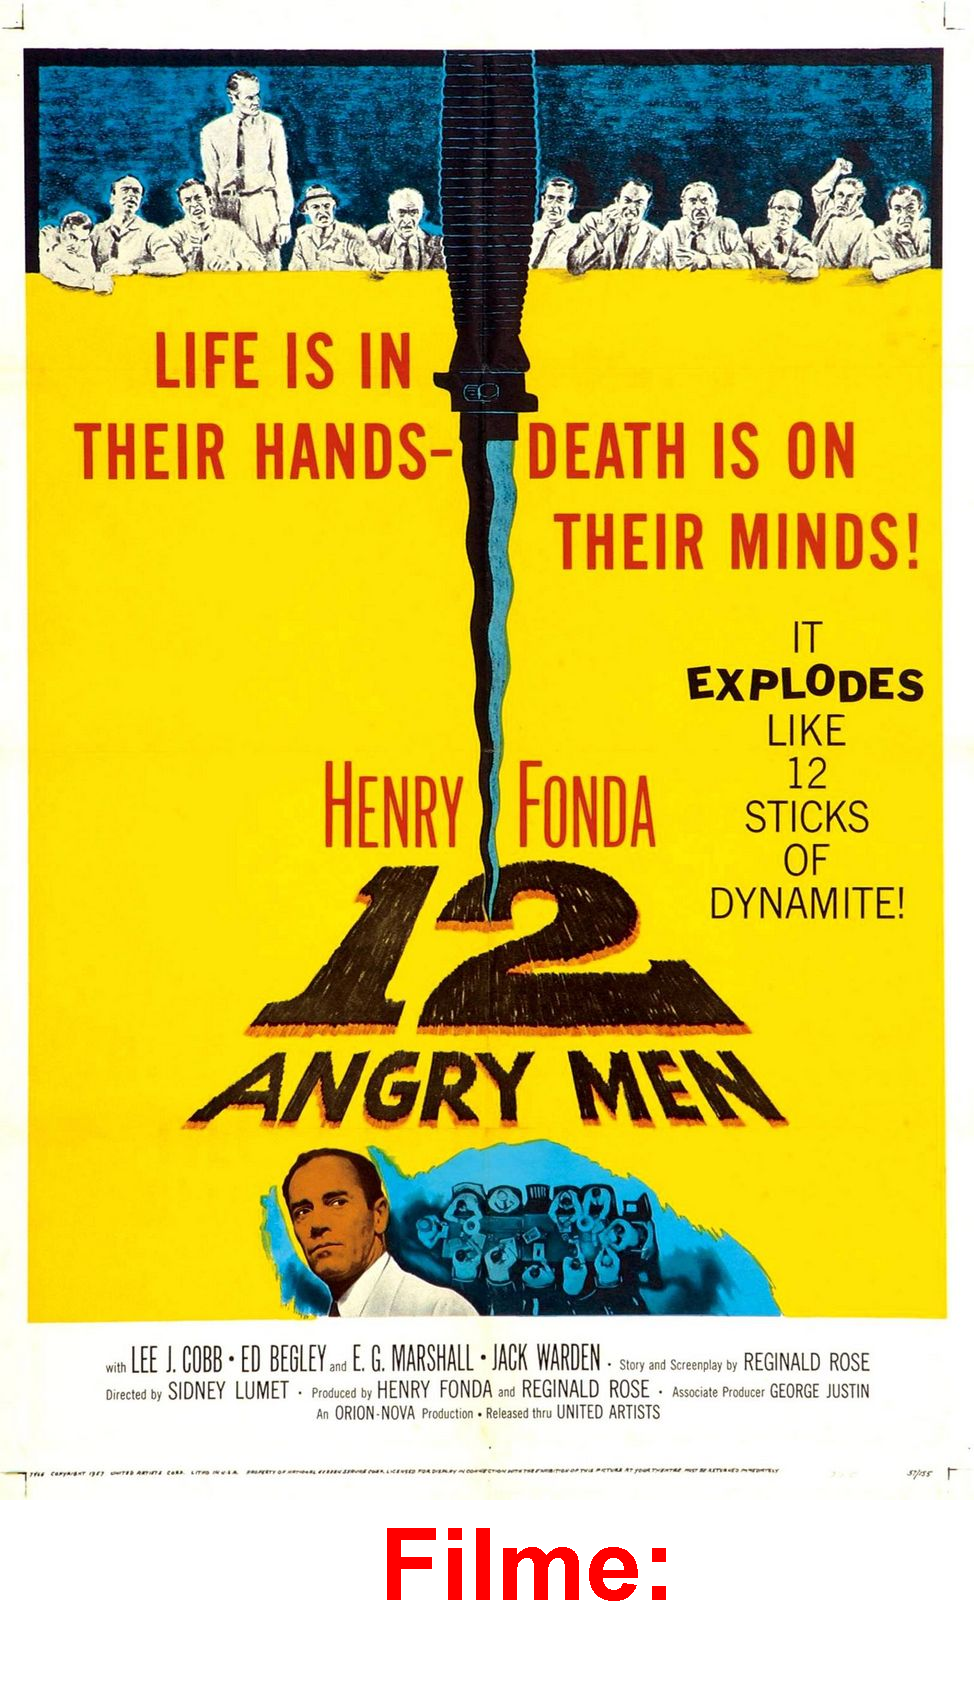
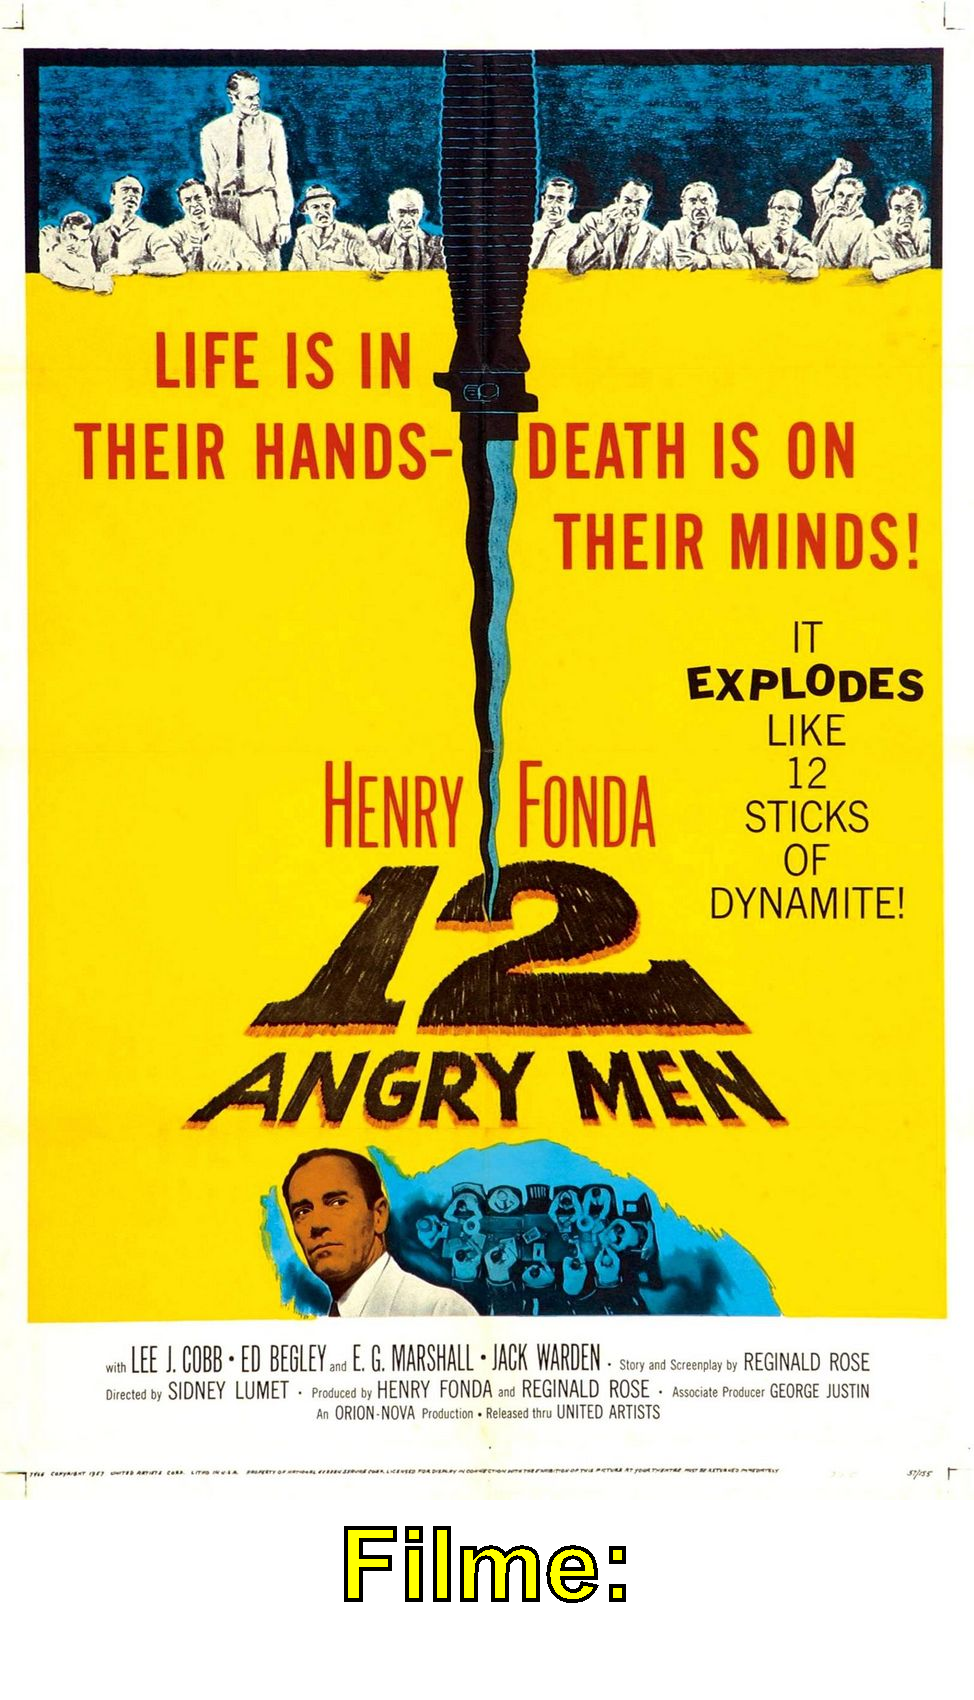
Add files via upload

Changed region(s): [[0.3388, 0.8729, 0.6776, 0.9665]]

diff --git a/src/StickerGenerator.java b/src/StickerGenerator.java
@@ -1,14 +1,17 @@
-import java.awt.Graphics2D;
+import java.awt.*;
+import java.awt.font.FontRenderContext;
+import java.awt.geom.AffineTransform;
+import java.awt.geom.Rectangle2D;
 import java.awt.image.BufferedImage;
 import java.io.File;
-import java.awt.Color;
-import java.awt.Font;
 import java.io.InputStream;
+import java.awt.FontMetrics;
+import java.awt.font.TextLayout;
 
 import javax.imageio.ImageIO;
 public class StickerGenerator {
 
-    public void create(InputStream inputStream, String fileName) throws Exception {
+    public <Shap> void create(InputStream inputStream, String fileName) throws Exception {
         // InputStream inputStream = new FileInputStream(new File("entrada/movie.jpg"));
         // InputStream inputStream = new URL("https://raw.githubusercontent.com/alura-cursos/imersao-java-2-api/main/TopMovies_9.jpg").openStream();
         BufferedImage imagemOriginal = ImageIO.read(inputStream);
@@ -25,11 +28,29 @@ public class StickerGenerator {
 
         // configurar a fonte
         var fonte = new Font(Font.SANS_SERIF, Font.BOLD, 100);
-        graphics.setColor(Color.RED);
+        graphics.setColor(Color.YELLOW);
         graphics.setFont(fonte);
 
         // escrever uma frase na nova imagem
-        graphics.drawString("Filme:",380, novaAltura - 100);
+        String text = "Filme:";
+        FontMetrics fontMetrics = graphics.getFontMetrics();
+        Rectangle2D rectangle = fontMetrics.getStringBounds(text, graphics);
+        int textWidth = (int) rectangle.getWidth();
+        int positionTextX = (largura - textWidth) / 2;
+        int positionTextY = novaAltura - 100;
+        graphics.drawString(text, positionTextX, positionTextY);
+
+        FontRenderContext fontRenderContext = graphics.getFontRenderContext();
+        var textLayout = new TextLayout(text, fonte, fontRenderContext);
+        Shap outline = (Shap) textLayout.getOutline(null);
+        AffineTransform transform = graphics.getTransform();
+        transform.translate(positionTextX, positionTextY);
+        graphics.setTransform(transform);
+        var outlineStroke = new BasicStroke(largura * 0.004f);
+        graphics.setStroke(outlineStroke);
+        graphics.setColor(Color.BLACK);
+        graphics.draw((Shape) outline);
+        graphics.setClip((Shape) outline);
 
 
         // escrever a nova imagem em um arquivo
